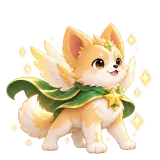
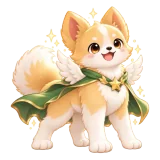
Fix stuck "결과 보내기", teacher touch lag, new 몽이 growing/final art (v13.65.0)
- Sharing a test result: the handlers read event.currentTarget after
  awaiting the request, where it is null, so the button stayed busy with
  a "Cannot set properties of null" toast although the share had
  succeeded. The button is kept before the request; the finish screen no
  longer reloads the whole bootstrap afterwards (the row is marked in the
  data already on the phone), and the server answers with id + time only.
- Teacher student list: applyFilters rewrote the count text on every
  call, each write was a mutation that re-ran it on the next frame, so it
  looped every frame. It now writes only on a change. The password reset
  button had the same currentTarget-after-await bug.
- Teacher lists on phones: row cards skip layout until near the screen
  (content-visibility), and the word list starts with 80 rows plus
  "더 보기" (200 more) instead of 400 at once. Measured with 6x CPU
  throttling on prod-like data: results 2.5s -> 0.4s, words 5.3s -> 1.5s.
- 몽이 growing and final stages use the teacher's new drawings (the body
  grows); the old growing-stage happy face is dropped until a matching one
  is drawn.

Claude-Session: https://claude.ai/code/session_019nox9LBJRxwy614zkCzC4q

diff --git a/public/app.js b/public/app.js
@@ -2,7 +2,7 @@ import { $, $$, api, esc, icon, toast, modal, buttonBusy, date } from './modules
 import { CHARACTERS, EXAM_TYPES, PRACTICE_TYPES, CLASS_OPTIONS, petForm } from './modules/core.js';
 import { avatar } from './modules/character.js';
 import { studentPage, getRanges, updateRangeSummary } from './modules/student.js';
-import { teacherPage, collectExamForm, updateExamSummary, studentFiltered, vocabTable, onTeacherGrammarLoaded } from './modules/teacher.js';
+import { teacherPage, collectExamForm, updateExamSummary, studentFiltered, vocabTable, moreVocab, onTeacherGrammarLoaded } from './modules/teacher.js';
 import { configureSessions, openExam, openResult, openPracticeRecord, startPractice, resumeActivePractice, leaveSession } from './modules/sessions.js';
 import { maybePetMoment, openPetNameModal, openEggShop, petJosa } from './modules/pet-moments.js';
 import { openBattle } from './modules/battle.js';
@@ -128,7 +128,7 @@ function navigate(tab) {
   collectExamForm(A); A.tab = tab;
   if (tab === 'practice') { A.studyView = 'hub'; A.practiceRunMode = 'practice'; }
   if (tab === 'exam') { A.examKind = null; A.practiceRunMode = 'practice'; if (!['write_meaning','spell','eng2mean','mean2eng'].includes(A.mode)) A.mode = 'eng2mean'; }
-  A.search = ''; A.classFilter = ''; A.style = null; render(); window.scrollTo(0, 0);
+  A.search = ''; A.classFilter = ''; A.style = null; A.vocabLimit = 0; render(); window.scrollTo(0, 0);
 }
 function signupView(division = A.division) {
   A.role = 'student'; A.division = division;
@@ -493,6 +493,7 @@ $('#app').addEventListener('click', async event => {
     if (d.action === 'pet-name') return openPetNameModal(A, petChanged);
     if (d.action === 'choose-pet') return confirmFirstPet(d.key);
     if (d.action === 'egg-shop') return openEggShop(A, petChanged);
+    if (d.action === 'vocab-more') { moreVocab(A); $('#vocab-table').innerHTML = vocabTable(A); return; }
     if (d.action === 'battle') { A.screen = 'battle'; return openBattle(A, leaveBattle); }
     if (d.action === 'battle-accept' && A.data.battle_invite) { const invite = A.data.battle_invite; A.data.battle_invite = null; A.screen = 'battle'; return openBattle(A, leaveBattle, { accept: invite }); }
     if (d.action === 'battle-decline') { buttonBusy(b); await api('/battle/invite/decline', { id: d.id }); A.data.battle_invite = null; renderKeepScroll(); toast('도전장을 거절했어요.'); return; }
@@ -588,13 +589,13 @@ $('#app').addEventListener('change', event => {
     } else updateRangeSummary(A);
     savePreferences();
   }
-  if (input.id === 'vocab-grade') { A.vocabGrade = input.value; $('#vocab-table').innerHTML = vocabTable(A); return; }
+  if (input.id === 'vocab-grade') { A.vocabGrade = input.value; A.vocabLimit = 0; $('#vocab-table').innerHTML = vocabTable(A); return; }
   if (input.id === 'class-filter') { A.classFilter = input.value; $('#student-table').innerHTML = studentFiltered(A); }
   if (input.id === 'results-class') { A.resultsClass = input.value; A.resultsLimit = 30; renderKeepScroll(); }
 });
 function bindPageForms() {
   $('#student-search')?.addEventListener('input', e => { A.search = e.target.value; $('#student-table').innerHTML = studentFiltered(A); });
-  $('#vocab-search')?.addEventListener('input', e => { A.vocabSearch = e.target.value; $('#vocab-table').innerHTML = vocabTable(A); });
+  $('#vocab-search')?.addEventListener('input', e => { A.vocabSearch = e.target.value; A.vocabLimit = 0; $('#vocab-table').innerHTML = vocabTable(A); });
   $('#results-search')?.addEventListener('input', e => {
     A.resultsQuery = e.target.value; A.resultsLimit = 30;
     clearTimeout(bindPageForms.resultsTimer);

diff --git a/public/modules/sessions.js b/public/modules/sessions.js
@@ -211,15 +211,15 @@ export async function openPracticeRecord(sessionId) {
     } catch (error) { button.disabled = false; toast(error.message); }
   }));
   $('#record-share-self-test')?.addEventListener('click', async event => {
-    buttonBusy(event.currentTarget);
+    // Keep the button: event.currentTarget is null once the request has awaited.
+    const button = event.currentTarget;
+    buttonBusy(button);
     try {
       const shared = await api(`/practice/${session.id}/share`, {}, 'POST');
       session.shared_to_teacher_at = shared.shared_to_teacher_at;
-      event.currentTarget.className = 'btn self-test-share-done full';
-      event.currentTarget.disabled = true;
-      event.currentTarget.textContent = '✓ 선생님께 전송 완료';
-      toast('실전 결과를 선생님께 보냈어요.');
-    } catch (error) { buttonBusy(event.currentTarget, false); toast(error.message); }
+      markShared(session.id, shared.shared_to_teacher_at);
+      shareDone(button);
+    } catch (error) { buttonBusy(button, false); toast(error.message); }
   });
   $('#retry-wrong-practice')?.addEventListener('click', async event => {
     buttonBusy(event.currentTarget);
@@ -537,6 +537,20 @@ function answerImpact(feedback) {
   requestAnimationFrame(() => impact.classList.add('show'));
   setTimeout(() => impact.remove(), feedback.milestone ? 560 : 440);
 }
+// V13.65: a shared result is marked in the data already on the phone instead of
+// reloading everything (that second round trip made "결과 보내기" feel stuck).
+function markShared(id, at) {
+  const data = globalThis.__SUMUS_BOOTSTRAP__;
+  const row = data?.sessions?.find(item => item.id === id);
+  if (row) row.shared_to_teacher_at = at;
+}
+function shareDone(button) {
+  buttonBusy(button, false);
+  button.className = 'btn self-test-share-done full';
+  button.disabled = true;
+  button.textContent = '✓ 선생님께 전송 완료';
+  toast('실전 결과를 선생님께 보냈어요.');
+}
 function animateTestResult(score, perfect) {
   const node = $('#practice-result-score');
   if (node) {
@@ -852,17 +866,16 @@ function finishPracticeView() {
   </main></div>`);
   if (x.run_mode === 'test' && !interrupted) animateTestResult(score, perfect);
   $('#share-self-test')?.addEventListener('click', async event => {
-    buttonBusy(event.currentTarget);
+    // Keep the button: event.currentTarget is null once the request has awaited.
+    const button = event.currentTarget;
+    buttonBusy(button);
     try {
       const shared = await api(`/practice/${x.id}/share`, {}, 'POST');
       x.shared_to_teacher_at = shared.shared_to_teacher_at;
-      event.currentTarget.className = 'btn self-test-share-done full';
-      event.currentTarget.disabled = true;
-      event.currentTarget.textContent = '✓ 선생님께 전송 완료';
-      await refresh();
-      toast('실전 결과를 선생님께 보냈어요.');
+      markShared(x.id, shared.shared_to_teacher_at);
+      shareDone(button);
     } catch (error) {
-      buttonBusy(event.currentTarget, false);
+      buttonBusy(button, false);
       toast(error.message);
     }
   });

diff --git a/public/modules/teacher.js b/public/modules/teacher.js
@@ -232,7 +232,7 @@ export function vocabTable(A) {
     return searchMatch && rangeMatch && gradeMatch;
   });
   const gradeHead = middle ? '<th>학년</th>' : '';
-  return `<div class="panel-head"><div><h2>${A.school} 단어장</h2><span>원본 뜻은 유지하고, 기본 유효답과 승인된 허용 뜻의 출처를 따로 관리합니다.</span></div><span>${list.length}개 단어</span></div><div class="table-scroll"><table class="vocab-table"><thead><tr>${gradeHead}<th>범위</th><th>영어</th><th>기본 뜻</th><th>허용 뜻</th><th>관리</th></tr></thead><tbody>${list.slice(0, 400).map(w => {
+  return `<div class="panel-head"><div><h2>${A.school} 단어장</h2><span>원본 뜻은 유지하고, 기본 유효답과 승인된 허용 뜻의 출처를 따로 관리합니다.</span></div><span>${list.length}개 단어</span></div><div class="table-scroll"><table class="vocab-table"><thead><tr>${gradeHead}<th>범위</th><th>영어</th><th>기본 뜻</th><th>허용 뜻</th><th>관리</th></tr></thead><tbody>${list.slice(0, vocabLimit(A)).map(w => {
     const aliases = A.data.meaning_aliases?.[w.id] || [];
     const meta = A.data.meaning_alias_meta?.[w.id] || [];
     const aliasHtml = aliases.map(alias => {
@@ -241,8 +241,13 @@ export function vocabTable(A) {
       return `<span class="meaning-alias source-${source}" title="${esc(aliasSourceLabel(source))}">${esc(alias)}<small>${esc(aliasSourceLabel(source))}</small></span>`;
     }).join('');
     return `<tr>${middle ? `<td><span class="pill">${esc(w.grade || '-')}</span></td>` : ''}<td>${esc(w.range_code)}</td><td><strong>${esc(w.word)}</strong></td><td>${esc(w.meaning)}</td><td><span class="meaning-alias auto">기본 유효답<small>자동</small></span>${aliasHtml}</td><td><button class="text-button" data-meaning-alias="${esc(w.id)}">허용 뜻 관리</button></td></tr>`;
-  }).join('')}</tbody></table></div>`;
+  }).join('')}</tbody></table></div>${list.length > vocabLimit(A) ? `<button class="btn full vocab-more-v1365" data-action="vocab-more">더 보기 (${list.length - vocabLimit(A)}개 남음)</button>` : ''}`;
 }
+// V13.65: 80 rows first (was 400 at once, which made this tab slow to open on phones);
+// "더 보기" adds 200, and search still looks through every word.
+const VOCAB_FIRST = 80, VOCAB_STEP = 200;
+const vocabLimit = A => A.vocabLimit || VOCAB_FIRST;
+export function moreVocab(A) { A.vocabLimit = vocabLimit(A) + VOCAB_STEP; }
 function books(A) {
   const middle = A.data.profile.active_division === 'middle';
   const gradeSelect = middle ? `<label class="teacher-school"><span>학년</span><select id="vocab-grade"><option value="">전체</option><option value="중2" ${A.vocabGrade === '중2' ? 'selected' : ''}>중2</option><option value="중3" ${A.vocabGrade === '중3' ? 'selected' : ''}>중3</option></select></label>` : '';

diff --git a/public/teacher-enhancements.js b/public/teacher-enhancements.js
@@ -118,11 +118,14 @@ async function applyFilters() {
     const id = row.querySelector('[data-student]')?.dataset.student;
     const p = data.profiles.find(x => x.id === id);
     const show = !!p && (!status || (status === 'active' ? p.active : !p.active));
-    row.hidden = !show;
+    // Write only on a change: every write is a DOM mutation, and the observer below
+    // re-runs this on mutations, so unconditional writes looped every frame (V13.65).
+    if (row.hidden !== !show) row.hidden = !show;
     if (show) visible++;
   }
   const count = document.querySelector('#visible-student-count');
-  if (count) count.textContent = `현재 ${visible}명 표시`;
+  const label = `현재 ${visible}명 표시`;
+  if (count && count.textContent !== label) count.textContent = label;
 }
 
 function activityRows(data, id) {
@@ -206,17 +209,19 @@ async function openStudentDetail(id) {
 
   $('#student-reset-password').onclick = async event => {
     if (!confirm(p.display_name + ' 학생의 비밀번호를 12345678로 재설정할까요?')) return;
-    buttonBusy(event.currentTarget);
+    const button = event.currentTarget; // null after the await below
+    buttonBusy(button);
     try {
       await api('/students/' + id, { password: '12345678' }, 'PATCH');
       toast('비밀번호를 12345678로 재설정했어요.');
     } catch (err) { toast(err.message); }
-    finally { buttonBusy(event.currentTarget, false); }
+    finally { buttonBusy(button, false); }
   };
 
   $('#student-delete-account').onclick = async event => {
     if (!confirm(p.display_name + ' 학생 계정을 삭제할까요?\n연습 기록과 시험 기록도 함께 삭제됩니다.')) return;
-    buttonBusy(event.currentTarget);
+    const button = event.currentTarget; // null after the awaits below
+    buttonBusy(button);
     try {
       await api('/students/' + id, {}, 'DELETE');
       const fresh = await api('/bootstrap');
@@ -224,7 +229,7 @@ async function openStudentDetail(id) {
       close();
       globalThis.__SUMUS_APPLY_BOOTSTRAP__?.(fresh);
       toast('학생 계정을 삭제했어요.');
-    } catch (err) { toast(err.message); buttonBusy(event.currentTarget, false); }
+    } catch (err) { toast(err.message); buttonBusy(button, false); }
   };
 }
 

diff --git a/public/modules/character.js b/public/modules/character.js
@@ -2,7 +2,9 @@ import { CHARACTERS, PET_FORMS } from './core.js';
 // Illustrated pets: /assets/pets/<pet>-<form>.webp (512px, transparent, feet on a shared
 // baseline) plus a 160px `-s` copy for small avatars. `form` is 0 (egg) .. 3 (final).
 const LEGACY = { lumi:'dog', nox:'cat', blaze:'dog', tide:'cat', zeph:'dragon', terra:'panda' };
-const EXPRESSIONS = { dog: { 2: ['happy'] }, pig: { 2: ['happy'] } };
+// V13.65: 몽이's growing and final art were redrawn (the body grows); its old happy face
+// belonged to the previous drawing, so it is left out until a matching one is drawn.
+const EXPRESSIONS = { pig: { 2: ['happy'] } };
 // Sprites are fitted one by one, so growth is added back gently (feet stay anchored).
 const GROW = [.86, .86, .93, 1];
 const SMALL = new Set(['mini']);

diff --git a/public/index.html b/public/index.html
@@ -13,14 +13,14 @@
   <link rel="icon" href="/sumus-logo-green.svg" type="image/svg+xml">
   <link rel="apple-touch-icon" href="/icon.svg">
   <link rel="manifest" href="/manifest.webmanifest">
-  <link rel="stylesheet" href="/app.bundle.css?v=13.64.0">
+  <link rel="stylesheet" href="/app.bundle.css?v=13.65.0">
 </head>
 <body>
   <div id="app"><div class="boot">SUMUS<span>단어를 넘어, 성장으로.</span></div></div>
   <div id="toast" role="status" aria-live="polite"></div>
   <div id="modal-root"></div>
   <script src="/boot-guard.js"></script>
-  <script type="module" src="/app.js?v=13.64.0"></script>
+  <script type="module" src="/app.js?v=13.65.0"></script>
   <script type="module" src="/pwa.js"></script>
 </body>
 </html>

diff --git a/public/sw.js b/public/sw.js
@@ -7,7 +7,7 @@
 // switches to it (and reloads) only when no exam or practice is on screen.
 
 // BUILD:START (generated by server/build-assets.mjs, do not edit by hand)
-const ASSET_HASH = '47b065a7c91b88e7';
+const ASSET_HASH = '422c40b61b9d8e77';
 const PRECACHE = ["/app.bundle.css","/app.js","/boot-guard.js","/icon.svg","/","/manifest.webmanifest","/modules/battle.js","/modules/character.js","/modules/core.js","/modules/pet-moments.js","/modules/sessions.js","/modules/student.js","/modules/teacher.js","/modules/ui.js","/practice-enhancements.js","/pwa.js","/student-enhancements.js","/sumus-logo-green.svg"];
 // BUILD:END
 

diff --git a/public/v1365.css b/public/v1365.css
@@ -1,0 +1,6 @@
+/* SUMUS VOCA V13.65 · lighter teacher screen on phones.
+   Row cards the teacher has not scrolled to yet skip layout until they come near the
+   screen (results went from ~0.7s to ~0.07s of layout per tap on a slow phone). On a
+   desktop table the rows are table rows, where this has no effect. */
+.teacher-app.tv2 tbody tr{content-visibility:auto;contain-intrinsic-size:auto 120px}
+.vocab-more-v1365{margin-top:12px}

diff --git a/CHANGES_v13.65.0.md b/CHANGES_v13.65.0.md
@@ -1,0 +1,52 @@
+# SUMUS VOCA v13.65.0: 결과 보내기 멈춤 · 교사 화면 터치 렉 수정 · 새 몽이 그림
+
+## 1. "선생님께 결과 보내기"가 멈춘 것처럼 보이던 문제
+- **원인:** 버튼을 누르면 서버에는 결과가 **제대로 전송됐지만**, 그다음 버튼 모양을 바꾸는 코드가 오류를 냈습니다.
+  - 요청을 기다린 뒤에는 브라우저가 "누른 버튼" 정보(`event.currentTarget`)를 비우는데, 코드가 그 뒤에 버튼을 찾았습니다.
+  - 그래서 버튼이 **계속 "처리 중"으로 남고** "Cannot set properties of null" 알림이 떴습니다.
+  - 로컬에서 예전 코드로 똑같이 재현해서 확인했습니다.
+- 실전 결과 화면에서는 전송 뒤에 **학생 데이터 전체를 다시 받느라** 한 번 더 기다렸습니다.
+- **고친 내용:**
+  - 버튼을 요청 전에 잡아 두어, 전송 뒤 "✓ 선생님께 전송 완료"와 알림이 바로 나옵니다.
+  - 전체 데이터를 다시 받지 않고, 폰에 있는 기록에만 "보냄"을 표시합니다.
+  - 서버 응답도 결과 전체 대신 `id`와 보낸 시각만 돌려줍니다.
+- 로컬 확인: 누른 뒤 0.2초에 완료 표시가 나오고 오류는 0건입니다. 예전 코드는 3초가 지나도 "처리 중"이었습니다.
+
+## 2. 교사 화면 터치 렉
+운영과 비슷한 데이터(학생 37명, 기록 598개)로 느린 폰(CPU 6배 느리게) 조건을 흉내 내서 탭마다 쟀습니다.
+- **원인 1 · 학생 관리 화면의 무한 반복:**
+  - 필터가 "현재 N명 표시" 글자를 매번 새로 썼습니다. 글자를 쓰면 화면 변경 감시가 다시 필터를 불러서, 가만히 있어도 **매 프레임** 계속 돌았습니다(1초에 약 23번 다시 계산).
+  - 이제 값이 바뀔 때만 씁니다.
+- **원인 2 · 긴 목록을 한 번에 다 배치:**
+  - 폰에서 학생·결과 카드 중 **화면 밖에 있는 것은 배치 계산을 미룹니다**(`content-visibility`).
+  - 단어 데이터는 400줄을 한 번에 그리던 것을 **처음 80줄 + "더 보기"(200줄씩)**로 바꿨습니다. 검색은 전과 같이 전체 단어에서 찾습니다.
+- 학생 상세의 "비밀번호 재설정" 버튼도 같은 버그로 성공 뒤에 계속 "처리 중"으로 남아서 함께 고쳤습니다.
+
+| 탭 누른 뒤 반응(느린 폰 기준) | 전 | 후 |
+|---|---|---|
+| 대시보드 | 0.64초 | 0.31초 |
+| 학생 관리 | 1.26초(+ 가만히 있어도 계속 계산) | 0.97초(계속 계산 없음) |
+| 단어 데이터 | 5.28초 | 1.46초 |
+| 결과 분석 | 2.52초 | 0.38초 |
+| 학생 상세 열기 | 0.47초(+ 뒤이어 2초 부담) | 0.28초 |
+
+이 작업 환경에는 한글 글꼴이 없어서 절대 시간은 실제 폰과 다를 수 있습니다. 같은 조건에서 비교한 전후 차이입니다.
+
+## 3. 새 몽이 그림 (원장님이 만든 그림)
+- **성장(2단계)**과 **최종(3단계)**을 새 그림으로 바꿨습니다. 이제 단계마다 **몸이 자랍니다.**
+  - 성장: 다리가 길어지고 초록 스카프
+  - 최종: 더 크고 당당한 몸, 초록 망토, 흰 날개, 반짝이
+- 앱 규격(512px, 발 위치 맞춤)과 작은 그림(160px)을 함께 넣었습니다.
+- 예전 성장 그림의 **웃는 얼굴은 새 그림과 맞지 않아서 뺐습니다.** 웃는 얼굴이 필요한 곳에는 새 성장 그림이 나옵니다. 새 웃는 얼굴을 그려 주시면 다시 넣겠습니다.
+
+## 검증
+- `npm run check` 575/575: 확인 항목 5개 추가
+  - 필터 반복 없음
+  - 결과 보내기 버튼 처리, 짧은 응답
+  - 단어 80줄과 목록 최적화
+  - 새 몽이 그림
+- `npm run check:cloudflare`, `npm run check:sql`, `npm run check:load`: 통과
+- 로컬 `wrangler dev`(가짜 Supabase)에서 확인했습니다. 운영 Supabase에는 연결하지 않았습니다.
+  - 교사 탭 반응 측정
+  - 학생 결과 보내기
+  - 새 몽이 그림 표시
